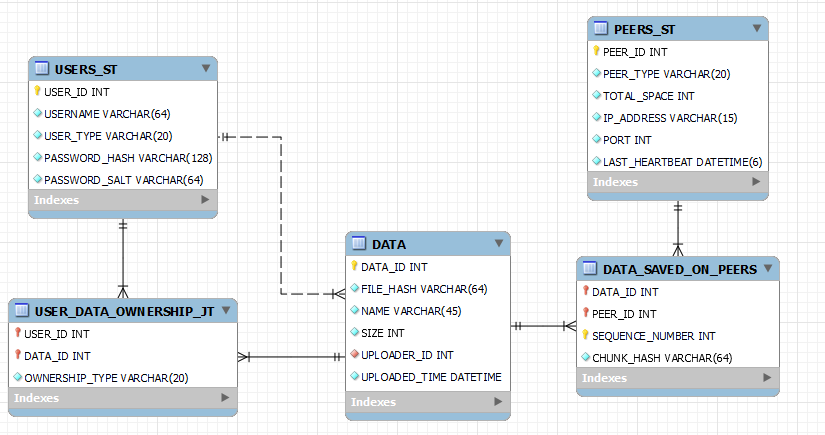
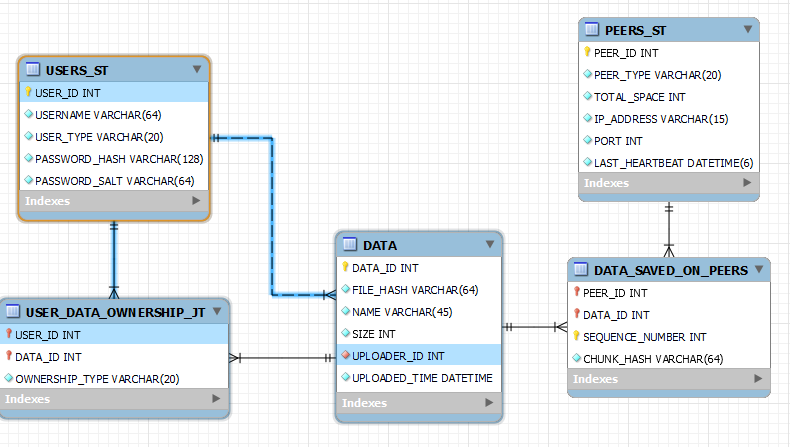
ModelUpdate2.16. 22.18

diff --git a/decentralizedCloud/Model/Entities/Data.cs b/decentralizedCloud/Model/Entities/Data.cs
@@ -10,6 +10,9 @@ public class Data
     [Key,DatabaseGenerated(DatabaseGeneratedOption.Identity)]
     public int Id { get; set; }
     
+    [Column("FILE_HASH")] 
+    public string FileHash { get; set; }
+    
     [Column("NAME"), Required, StringLength(50)]
     public string Name { get; set; }
     
@@ -20,5 +23,8 @@ public class Data
     [Column("UPLOAD_TIME"),Required] 
     public DateTimeOffset UploadTime { get; init; }=DateTimeOffset.UtcNow;
     
+    [Column("UPLOADER_ID")]
+    public int UploaderId { get; set; }
+    public User Uploader { get; init; }
     public List<DataOnPeers> DataDistributions { get; set; } = new List<DataOnPeers>();
 }

diff --git a/decentralizedCloud/Model/Entities/UserAccessData.cs b/decentralizedCloud/Model/Entities/UserAccessData.cs
@@ -12,7 +12,7 @@ public class UserAccessData
     public int DataId { get; set; }
     
     [Column("OWNERSHIP_TYPE")]
-    public string ownerShipType { get; set; }
+    public string OwnershipType { get; set; }
     
     public Data Data { get; set; }
     public User User { get; set; }
